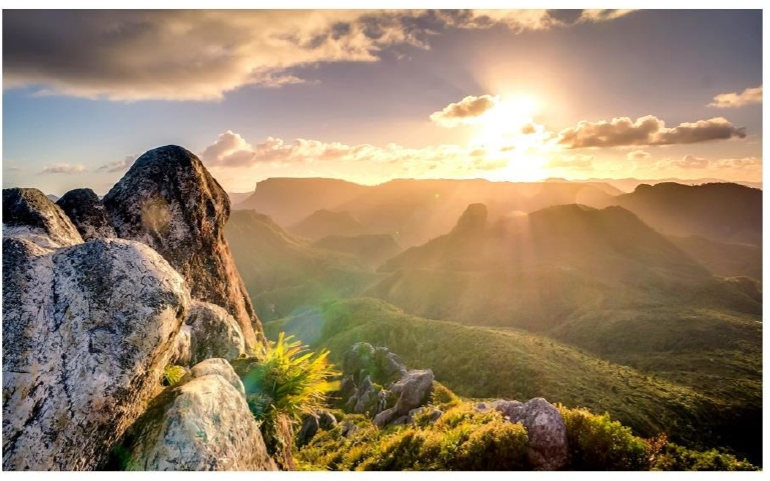
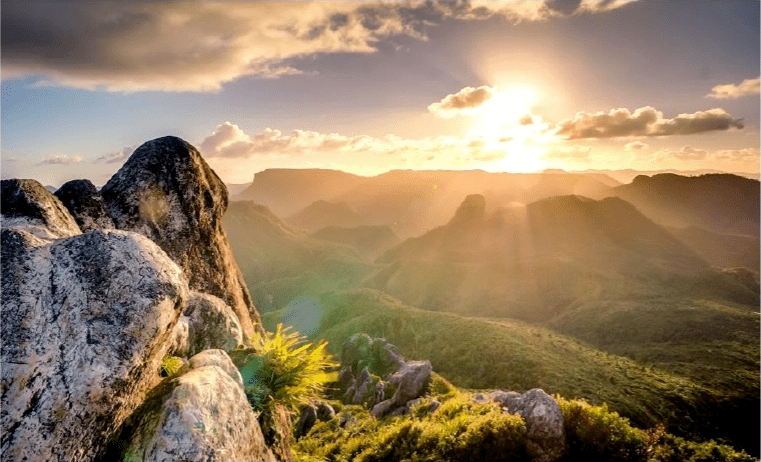
Add border radius to images

diff --git a/docs/src/css/custom.css b/docs/src/css/custom.css
@@ -24,6 +24,10 @@
   padding: 0 var(--ifm-pre-padding);
 }
 
+img {
+  border-radius: 15px;
+}
+
 /* align image to the right */
 .image-container {
   float: right;